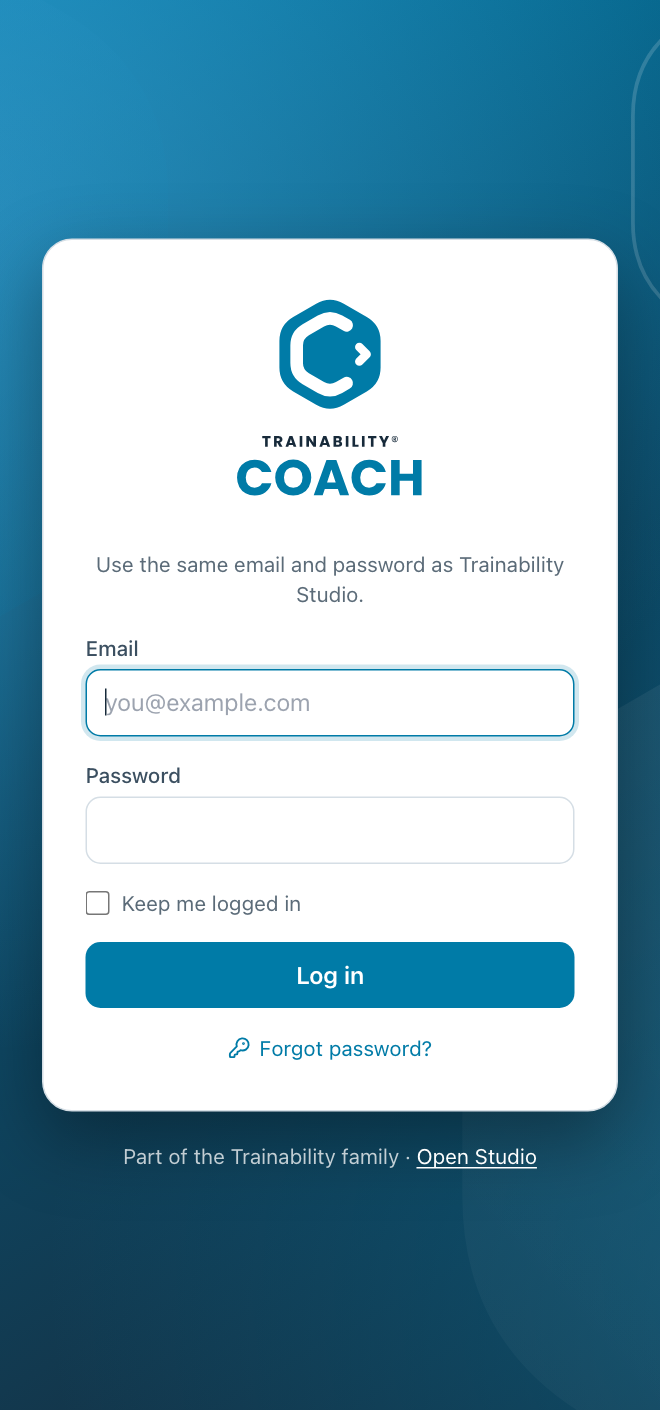
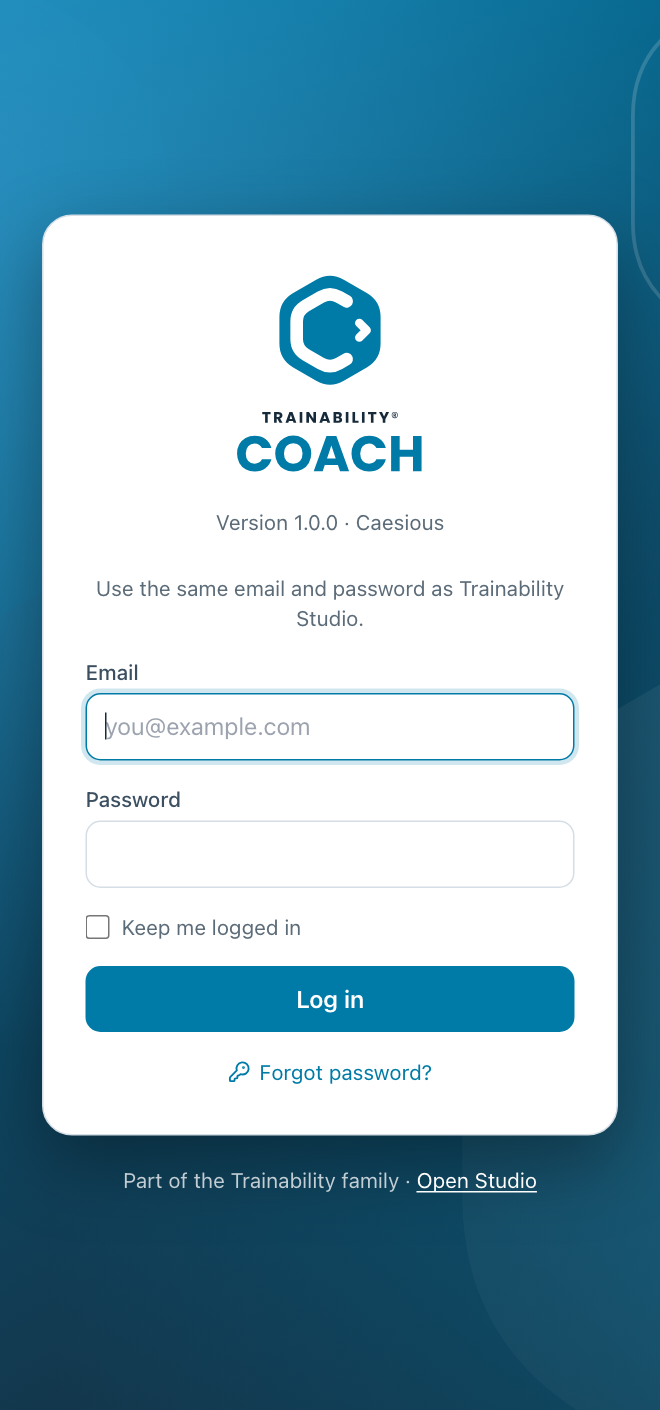
Version 1.0.0, Caesious

diff --git a/server/index.js b/server/index.js
@@ -1,6 +1,6 @@
 import express from "express";
 import path from "node:path";
-import { existsSync } from "node:fs";
+import { existsSync, readFileSync } from "node:fs";
 import { fileURLToPath } from "node:url";
 
 /**
@@ -29,6 +29,10 @@ const PORT = Number(process.env.PORT || 4800);
 const STUDIO_ORIGIN = (process.env.STUDIO_ORIGIN || "http://localhost:4242").replace(/\/+$/, "");
 const SESSION_COOKIE = "ts_session";
 
+/* Which version this is, from the same package.json the page is built from,
+   so the page and its host cannot disagree. Never a reason not to start. */
+const PKG = (() => { try { return JSON.parse(readFileSync(new URL("../package.json", import.meta.url), "utf8")); } catch { return {}; } })();
+
 const RELAYED = new Set(["/auth/login", "/auth/logout", "/auth/me", "/auth/forgot-password"]);
 
 const app = express();
@@ -37,7 +41,7 @@ app.disable("x-powered-by");
 app.set("trust proxy", Number(process.env.TRUST_PROXY || 0) || false);
 app.use("/api", express.json({ limit: "20kb" }));
 
-app.get("/api/health", (_req, res) => res.json({ ok: true, app: "coach", studio: STUDIO_ORIGIN }));
+app.get("/api/health", (_req, res) => res.json({ ok: true, app: "coach", version: PKG.version || "unknown", ...(PKG.codename ? { codename: PKG.codename } : {}), studio: STUDIO_ORIGIN }));
 
 /* Only Studio's session cookie is passed on, never anything else the browser
    holds for Coach's domain. */

diff --git a/vite.config.js b/vite.config.js
@@ -1,5 +1,19 @@
 import { defineConfig } from "vite";
 import react from "@vitejs/plugin-react";
+import { readFileSync } from "node:fs";
+
+/* The version and its name, baked into the bundle from package.json, as in
+   Studio: the browser has no package.json to read. */
+const VERSION_ID = "virtual:app-version";
+const appVersion = {
+  name: "app-version",
+  resolveId(id) { return id === VERSION_ID ? `\0${VERSION_ID}` : undefined; },
+  load(id) {
+    if (id !== `\0${VERSION_ID}`) return undefined;
+    const pkg = JSON.parse(readFileSync(new URL("./package.json", import.meta.url), "utf8"));
+    return `export default ${JSON.stringify(pkg.version)};\nexport const codename = ${JSON.stringify(pkg.codename || null)};`;
+  },
+};
 
 /* Coach is its own app on its own domain. The page calls /api/... on its own
    origin, and Coach's server (server/index.js) relays the sign-in routes to
@@ -8,7 +22,7 @@ import react from "@vitejs/plugin-react";
    In development the same path is kept: /api goes to Coach's server on 4800
    (`npm run server`), which relays to Studio's API. */
 export default defineConfig({
-  plugins: [react()],
+  plugins: [react(), appVersion],
   server: {
     port: 5174,
     proxy: { "/api": { target: process.env.API_URL || "http://localhost:4800", changeOrigin: true } },

diff --git a/src/auth/LoginScreen.jsx b/src/auth/LoginScreen.jsx
@@ -3,6 +3,7 @@ import { KeyRound, Loader2 } from "lucide-react";
 import { HexBackdrop } from "./HexBackdrop";
 import { CoachLockup } from "./CoachLockup";
 import { apiRequest, STUDIO_URL } from "../lib/api";
+import { VERSION_LABEL } from "../version";
 
 /* As on Studio's screen: a name typed without an @ is taken as a studio
    address, since on a phone the @ is a keyboard switch away. */
@@ -79,8 +80,10 @@ export function LoginScreen({ onLogin, offline }) {
       <HexBackdrop />
       <div className="w-full max-w-sm relative z-10">
         <div className="cx-card p-7" style={{ borderRadius: 20, boxShadow: "0 18px 50px rgba(0,0,0,0.35)" }}>
-          <div className="flex justify-center mb-6">
+          <div className="flex flex-col items-center mb-6">
             <CoachLockup style={{ width: 150, height: "auto" }} />
+            {/* Under the logo, as on Studio's sign-in screen. */}
+            <div className="text-sm mt-3" style={{ color: "var(--iron)" }}>Version {VERSION_LABEL}</div>
           </div>
 
           {offline && (

diff --git a/src/home/Header.jsx b/src/home/Header.jsx
@@ -2,6 +2,7 @@ import React, { useEffect, useRef, useState } from "react";
 import { LogOut, ExternalLink, ChevronDown } from "lucide-react";
 import badgeLight from "../assets/coach-badge-light.svg";
 import { STUDIO_URL } from "../lib/api";
+import { VERSION_LABEL } from "../version";
 
 const initials = (name = "") =>
   name.trim().split(/\s+/).slice(0, 2).map(w => w[0]?.toUpperCase() || "").join("") || "?";
@@ -69,6 +70,7 @@ export function Header({ user, onLogout }) {
               <button role="menuitem" onClick={onLogout} className="w-full flex items-center gap-2.5 px-3 py-2 rounded-lg text-sm hover:bg-[var(--ghost-fill)]">
                 <LogOut size={16} style={{ color: "var(--accent)" }} aria-hidden="true" /> Log out
               </button>
+              <p className="px-3 pt-1 pb-1 text-[11px]" style={{ color: "var(--iron)" }}>Version {VERSION_LABEL}</p>
             </div>
           )}
         </div>

diff --git a/src/version.js b/src/version.js
@@ -1,0 +1,10 @@
+import version, { codename } from "virtual:app-version";
+
+/**
+ * Which build of the app this is, baked in from package.json (vite.config.js).
+ * Each minor version has a name Glenn chooses: 1.0 is "Caesious".
+ */
+export const APP_VERSION = version;
+export const APP_CODENAME = codename;
+/** "1.0.0 · Caesious", or the number alone. */
+export const VERSION_LABEL = codename ? `${version} · ${codename}` : version;

diff --git a/NEURALBRAIN.md b/NEURALBRAIN.md
@@ -22,6 +22,8 @@ downwards means going backwards in time.
 
 # Completed brainstorm
 
+- **1.0 is "Caesious"** (16 Oct 2026; Glenn: "The codename for this version 1.0 is \"Caesious\""). Carried the way Studio carries "Heliotrope": `package.json` has `"version": "1.0.0"` (it was 0.1.0) and `"codename": "Caesious"`; `vite.config.js` bakes both into the bundle through a `virtual:app-version` module, as Studio's does, and `src/version.js` makes `VERSION_LABEL` ("1.0.0 · Caesious"). It shows under the logo on the sign-in screen, as Studio's "Version 3.1.1437 · Heliotrope" does, and at the foot of the account menu; `/api/health` now returns `version` and `codename` from the same package.json, so the page and its host cannot disagree. A `CHANGELOG.md` in Studio's format opens with "## 1.0 Caesious". The manual says where the version is (2.1, 3.2, and Words). Studio's rule came with it: every minor version gets a name Glenn chooses, asked for before the bump and never invented; build numbers get none. Screenshots retaken, since the sign-in picture now has the version on it.
+
 - **TRUST_PROXY on Airo, and the first real sign-in** (16 Oct 2026; the two Next up items left from going live; Glenn: "Both done: TRUST_PROXY=1 is set on Airo and I signed in to trainabilitycoach.com with my real account; it landed on the home screen with my name."). Both were Glenn's: the setting lives in Airo's dashboard, and a real sign-in needs a real password. `TRUST_PROXY=1` makes Coach's server take the visitor's address from the one proxy GoDaddy puts in front of it (`app.set("trust proxy", 1)` in server/index.js), which is what it now sends Studio as `X-Forwarded-For`. It does not yet change what Studio counts for its per-IP sign-in limit: Studio still sees Coach's server as the caller, which is the open item in Questions. The sign-in is the first end-to-end proof on the live site with a real account: Coach's page, the relay, Studio's live API and MySQL database, Studio's session cookie kept on trainabilitycoach.com, and `/auth/me` returning the right person for the home screen's greeting. Everything before this had been checked against Studio's fixture database locally, or from outside with nobody signed in.
 
 - **The user manual, written the Studio way** (16 Oct 2026; Glenn: "Let's do the same way we write Manuals on Studio as well, but in this, we only have one manual for now (no need to create trainer, quicktstart etc)"). `MANUAL.md`, in Studio's voice: for somebody not comfortable with computers, every task numbered step by step, **tap** meaning click as well, page breaks between chapters so it prints, a table of contents, and the exact words on the buttons and in the messages, checked against the code (Studio's own error texts for archived, locked and too many tries; the 30-day and one-day session lengths from Studio's auth.js). Five chapters for what exists: before you start (one account for every Trainability app, but separate sign-ins), signing in, the home screen, words, and when something goes wrong. Studio's `<!-- only:managers -->` edition markers are left out, since there is one manual. A temporary password is finished in Studio (2.4), because Coach has no screen to choose a new one; changing it there ends Coach's session too, as Studio ends every other session on a password change, so the box goes once you sign in again. Tooling copied from Studio and cut down: `npm run screenshots` (puppeteer-core with the installed Chrome, phone size 440×940 at 1.5×, light mode, reduced motion so the hexagons hold still, CPU rasteriser; signs in with `SHOT_EMAIL` and `SHOT_PASSWORD` from `server/.env`, the fixture account) takes `docs/images/01-login.png` and `02-home.png`; `npm run manual` copies MANUAL.md under **# User Manual** at the bottom of this file with every heading one level down, as Studio's `brainWithManual` does; `npm run check-docs` fails if that copy is behind or a pictured file is missing. The home picture's date and greeting change with the day it is taken.
@@ -140,7 +142,8 @@ by Studio, so:
 1. Open **trainabilitycoach.com** in your web browser.
 2. You will see a white box in the middle of a blue screen, with the Coach
    logo at the top: a hexagon with a **C** in it, and **TRAINABILITY®** and
-   **COACH** underneath. Under the logo it says *Use the same email and
+   **COACH** underneath. Under the logo is the version the app is on — for
+   example *Version 1.0.0 · Caesious* — and then *Use the same email and
    password as Trainability Studio.*
 3. Tap the **Email** box and type your email address. With a
    @trainabilitystudio.com address you can type just the part before the @ —
@@ -255,6 +258,9 @@ Each card is marked **Coming soon** for now, and tapping it does nothing yet.
    account you have: **Trainer**, **Admin**, **Master** or **Front desk** —
    the same as in Studio.
 3. Under that are **Open Studio** (3.3) and **Log out** (2.5).
+4. The last line is the version the app is on, such as
+   *Version 1.0.0 · Caesious*. If you ever report a problem, say which
+   version it was.
 
 To close the panel without choosing anything, tap anywhere outside it, or
 press Esc on a keyboard.
@@ -287,6 +293,7 @@ and light otherwise. There is nothing to set in the app.
 | **Temporary password** | A password emailed to you when yours is reset or forgotten. Use it once, then choose your own in Studio (2.4). |
 | **Keep me logged in** | The tick box that keeps you signed in for up to 30 days on this device (2.2). |
 | **Coming soon** | A part of Coach that is planned but not built yet. |
+| **Version** | Which release of Coach you are using: a number such as 1.0.0, and the release's name, such as Caesious. Shown on the sign-in screen and in your account menu. |
 
 <div style="page-break-after: always;"></div>
 

diff --git a/MANUAL.md b/MANUAL.md
@@ -81,7 +81,8 @@ by Studio, so:
 1. Open **trainabilitycoach.com** in your web browser.
 2. You will see a white box in the middle of a blue screen, with the Coach
    logo at the top: a hexagon with a **C** in it, and **TRAINABILITY®** and
-   **COACH** underneath. Under the logo it says *Use the same email and
+   **COACH** underneath. Under the logo is the version the app is on — for
+   example *Version 1.0.0 · Caesious* — and then *Use the same email and
    password as Trainability Studio.*
 3. Tap the **Email** box and type your email address. With a
    @trainabilitystudio.com address you can type just the part before the @ —
@@ -196,6 +197,9 @@ Each card is marked **Coming soon** for now, and tapping it does nothing yet.
    account you have: **Trainer**, **Admin**, **Master** or **Front desk** —
    the same as in Studio.
 3. Under that are **Open Studio** (3.3) and **Log out** (2.5).
+4. The last line is the version the app is on, such as
+   *Version 1.0.0 · Caesious*. If you ever report a problem, say which
+   version it was.
 
 To close the panel without choosing anything, tap anywhere outside it, or
 press Esc on a keyboard.
@@ -228,6 +232,7 @@ and light otherwise. There is nothing to set in the app.
 | **Temporary password** | A password emailed to you when yours is reset or forgotten. Use it once, then choose your own in Studio (2.4). |
 | **Keep me logged in** | The tick box that keeps you signed in for up to 30 days on this device (2.2). |
 | **Coming soon** | A part of Coach that is planned but not built yet. |
+| **Version** | Which release of Coach you are using: a number such as 1.0.0, and the release's name, such as Caesious. Shown on the sign-in screen and in your account menu. |
 
 <div style="page-break-after: always;"></div>
 

diff --git a/CHANGELOG.md b/CHANGELOG.md
@@ -1,0 +1,21 @@
+# Changelog
+
+What changed from one release to the next, for the people who use the app. The
+version is under the logo on the sign-in screen and at the foot of your
+account menu; the details of any change are in `NEURALBRAIN.md`.
+
+## 1.0 Caesious
+
+The first version of Trainability Coach, live at trainabilitycoach.com.
+
+- **Sign in with your Studio account.** The same email and password as
+  Trainability Studio; there is no separate Coach account. A forgotten
+  password is reset from the sign-in screen, and the temporary one works in
+  both apps. Each app keeps its own sign-in, so signing in or out of one
+  leaves the other as it was.
+- **The home screen.** Today's date and a greeting by name, and the four parts
+  of Coach on the way: Today, Clients, Programs and Messages, each marked
+  Coming soon.
+- **Your account menu.** Your name, email and kind of account, a way to Studio,
+  and Log out.
+- **Light or dark,** following your phone or computer.

diff --git a/README.md b/README.md
@@ -53,6 +53,8 @@ As in Studio:
   `npm run manual` to refresh its copy at the bottom of `NEURALBRAIN.md`;
   `npm run check-docs` fails if the copy is behind or a picture is missing.
   `npm run screenshots` retakes its pictures from the running app.
+- **`CHANGELOG.md`** — what changed in each release, under its version and
+  name (1.0 is Caesious).
 - **`BRAINSTORM.md`** — the working queue. Saying "brainstorm" means work
   through **Next up**.
 - **`NEURALBRAIN.md`** — every finished item and test run, with how it was
